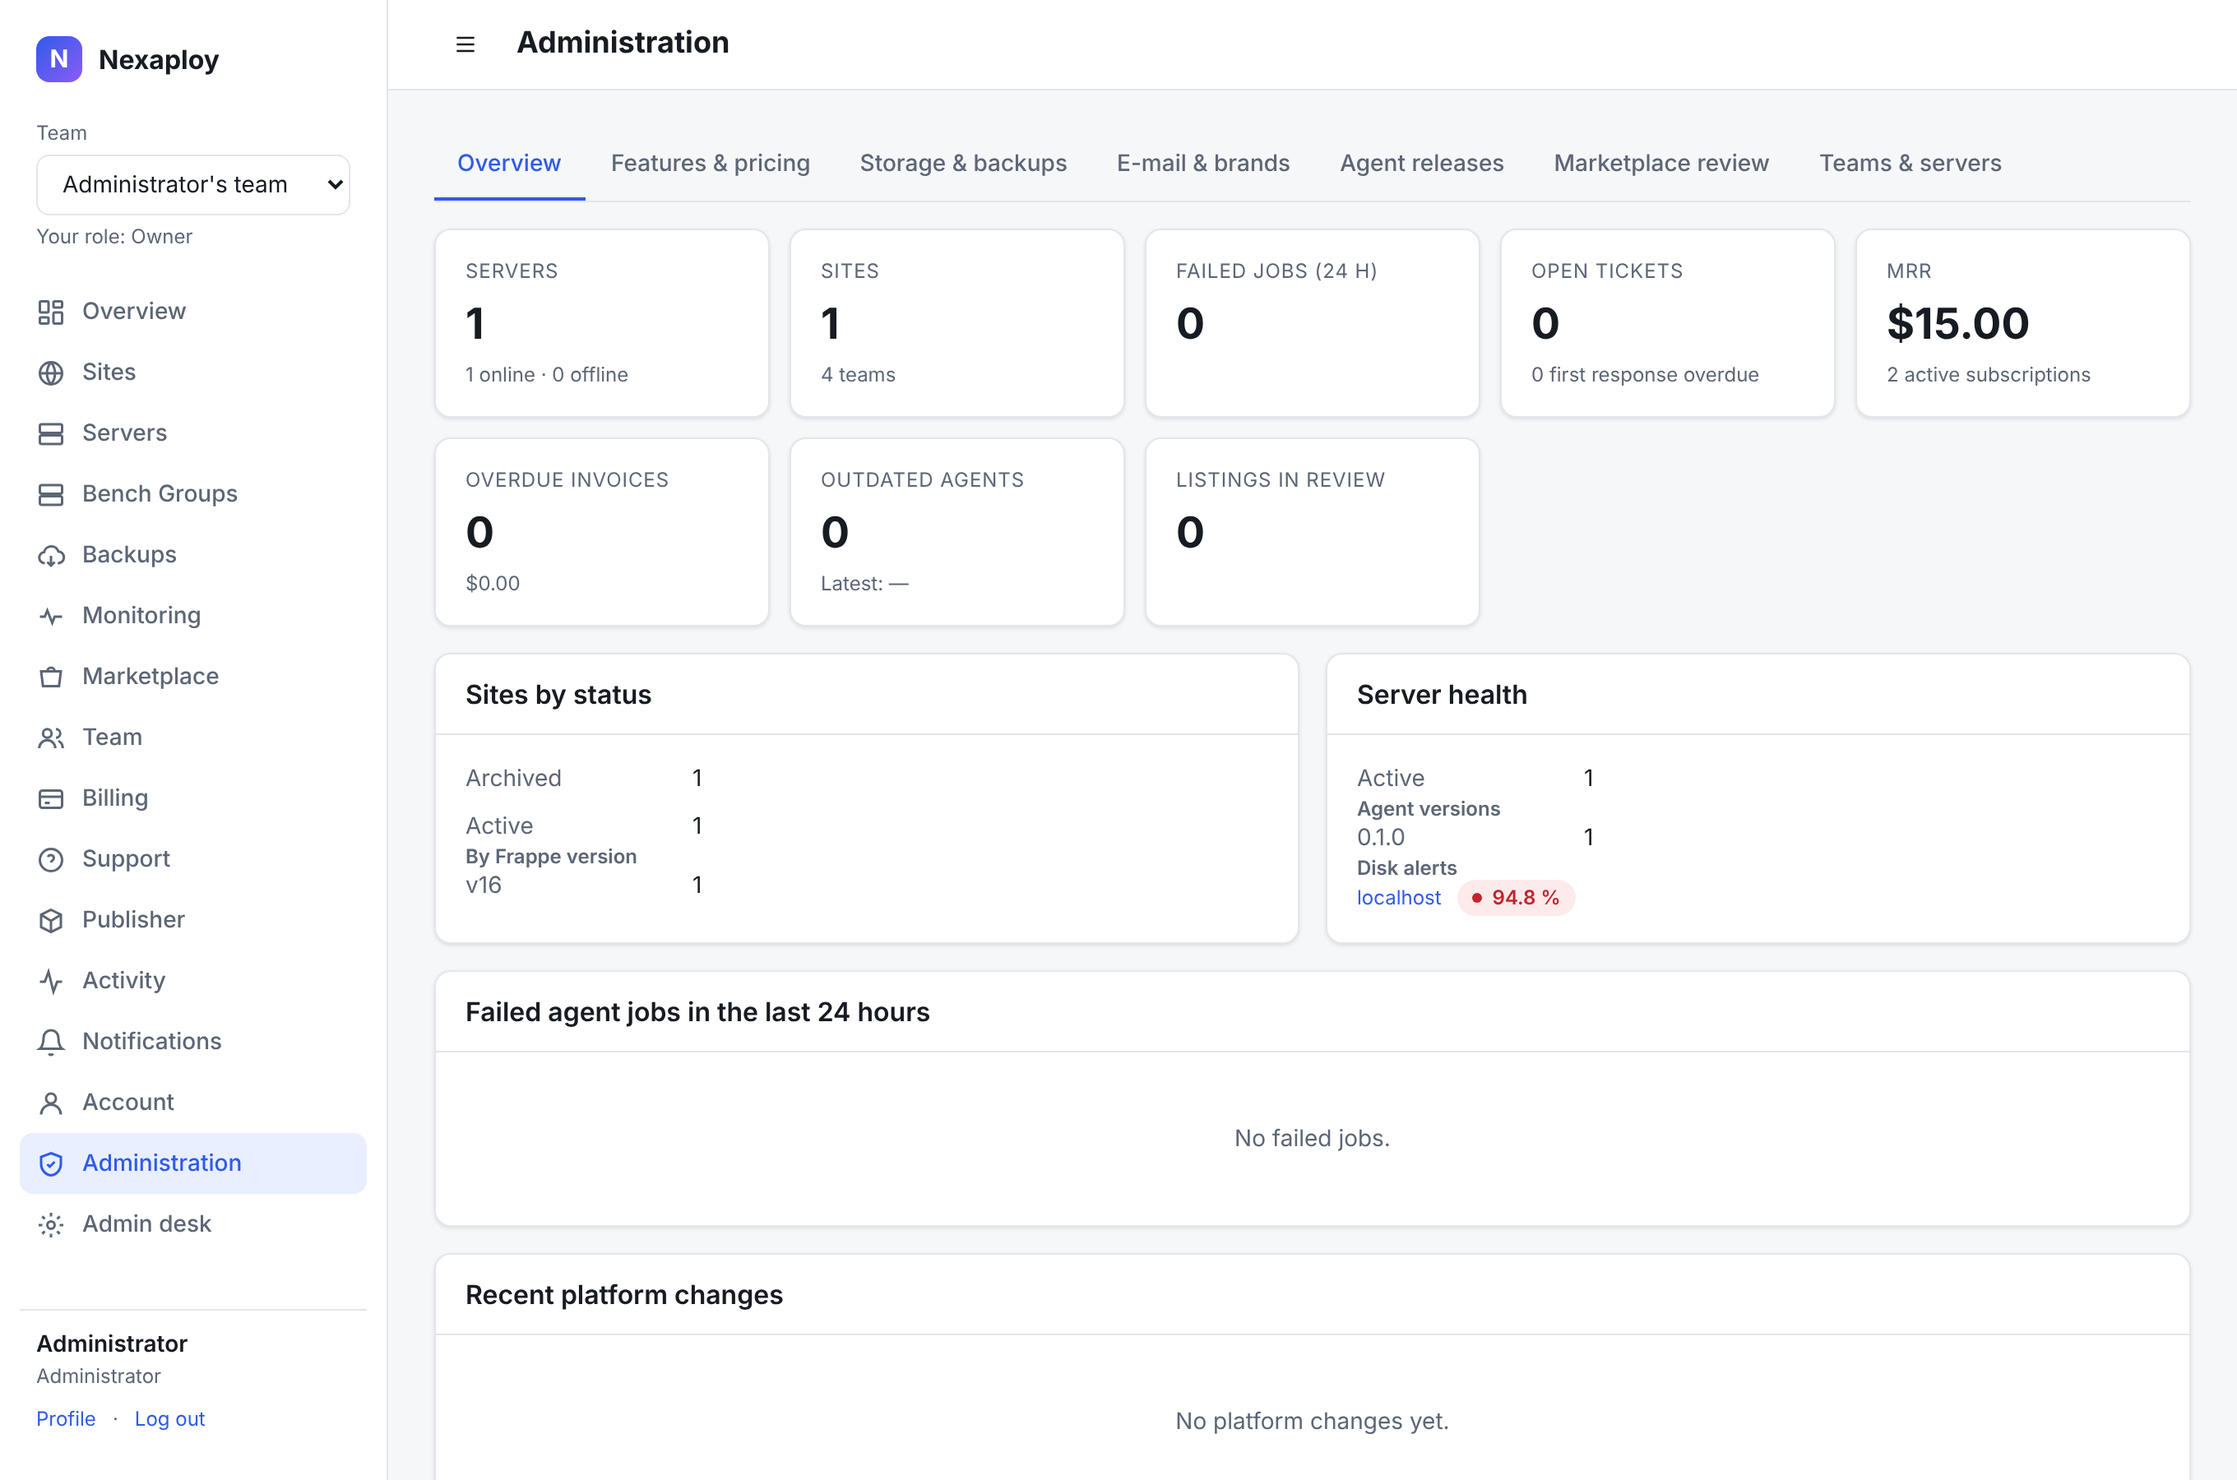
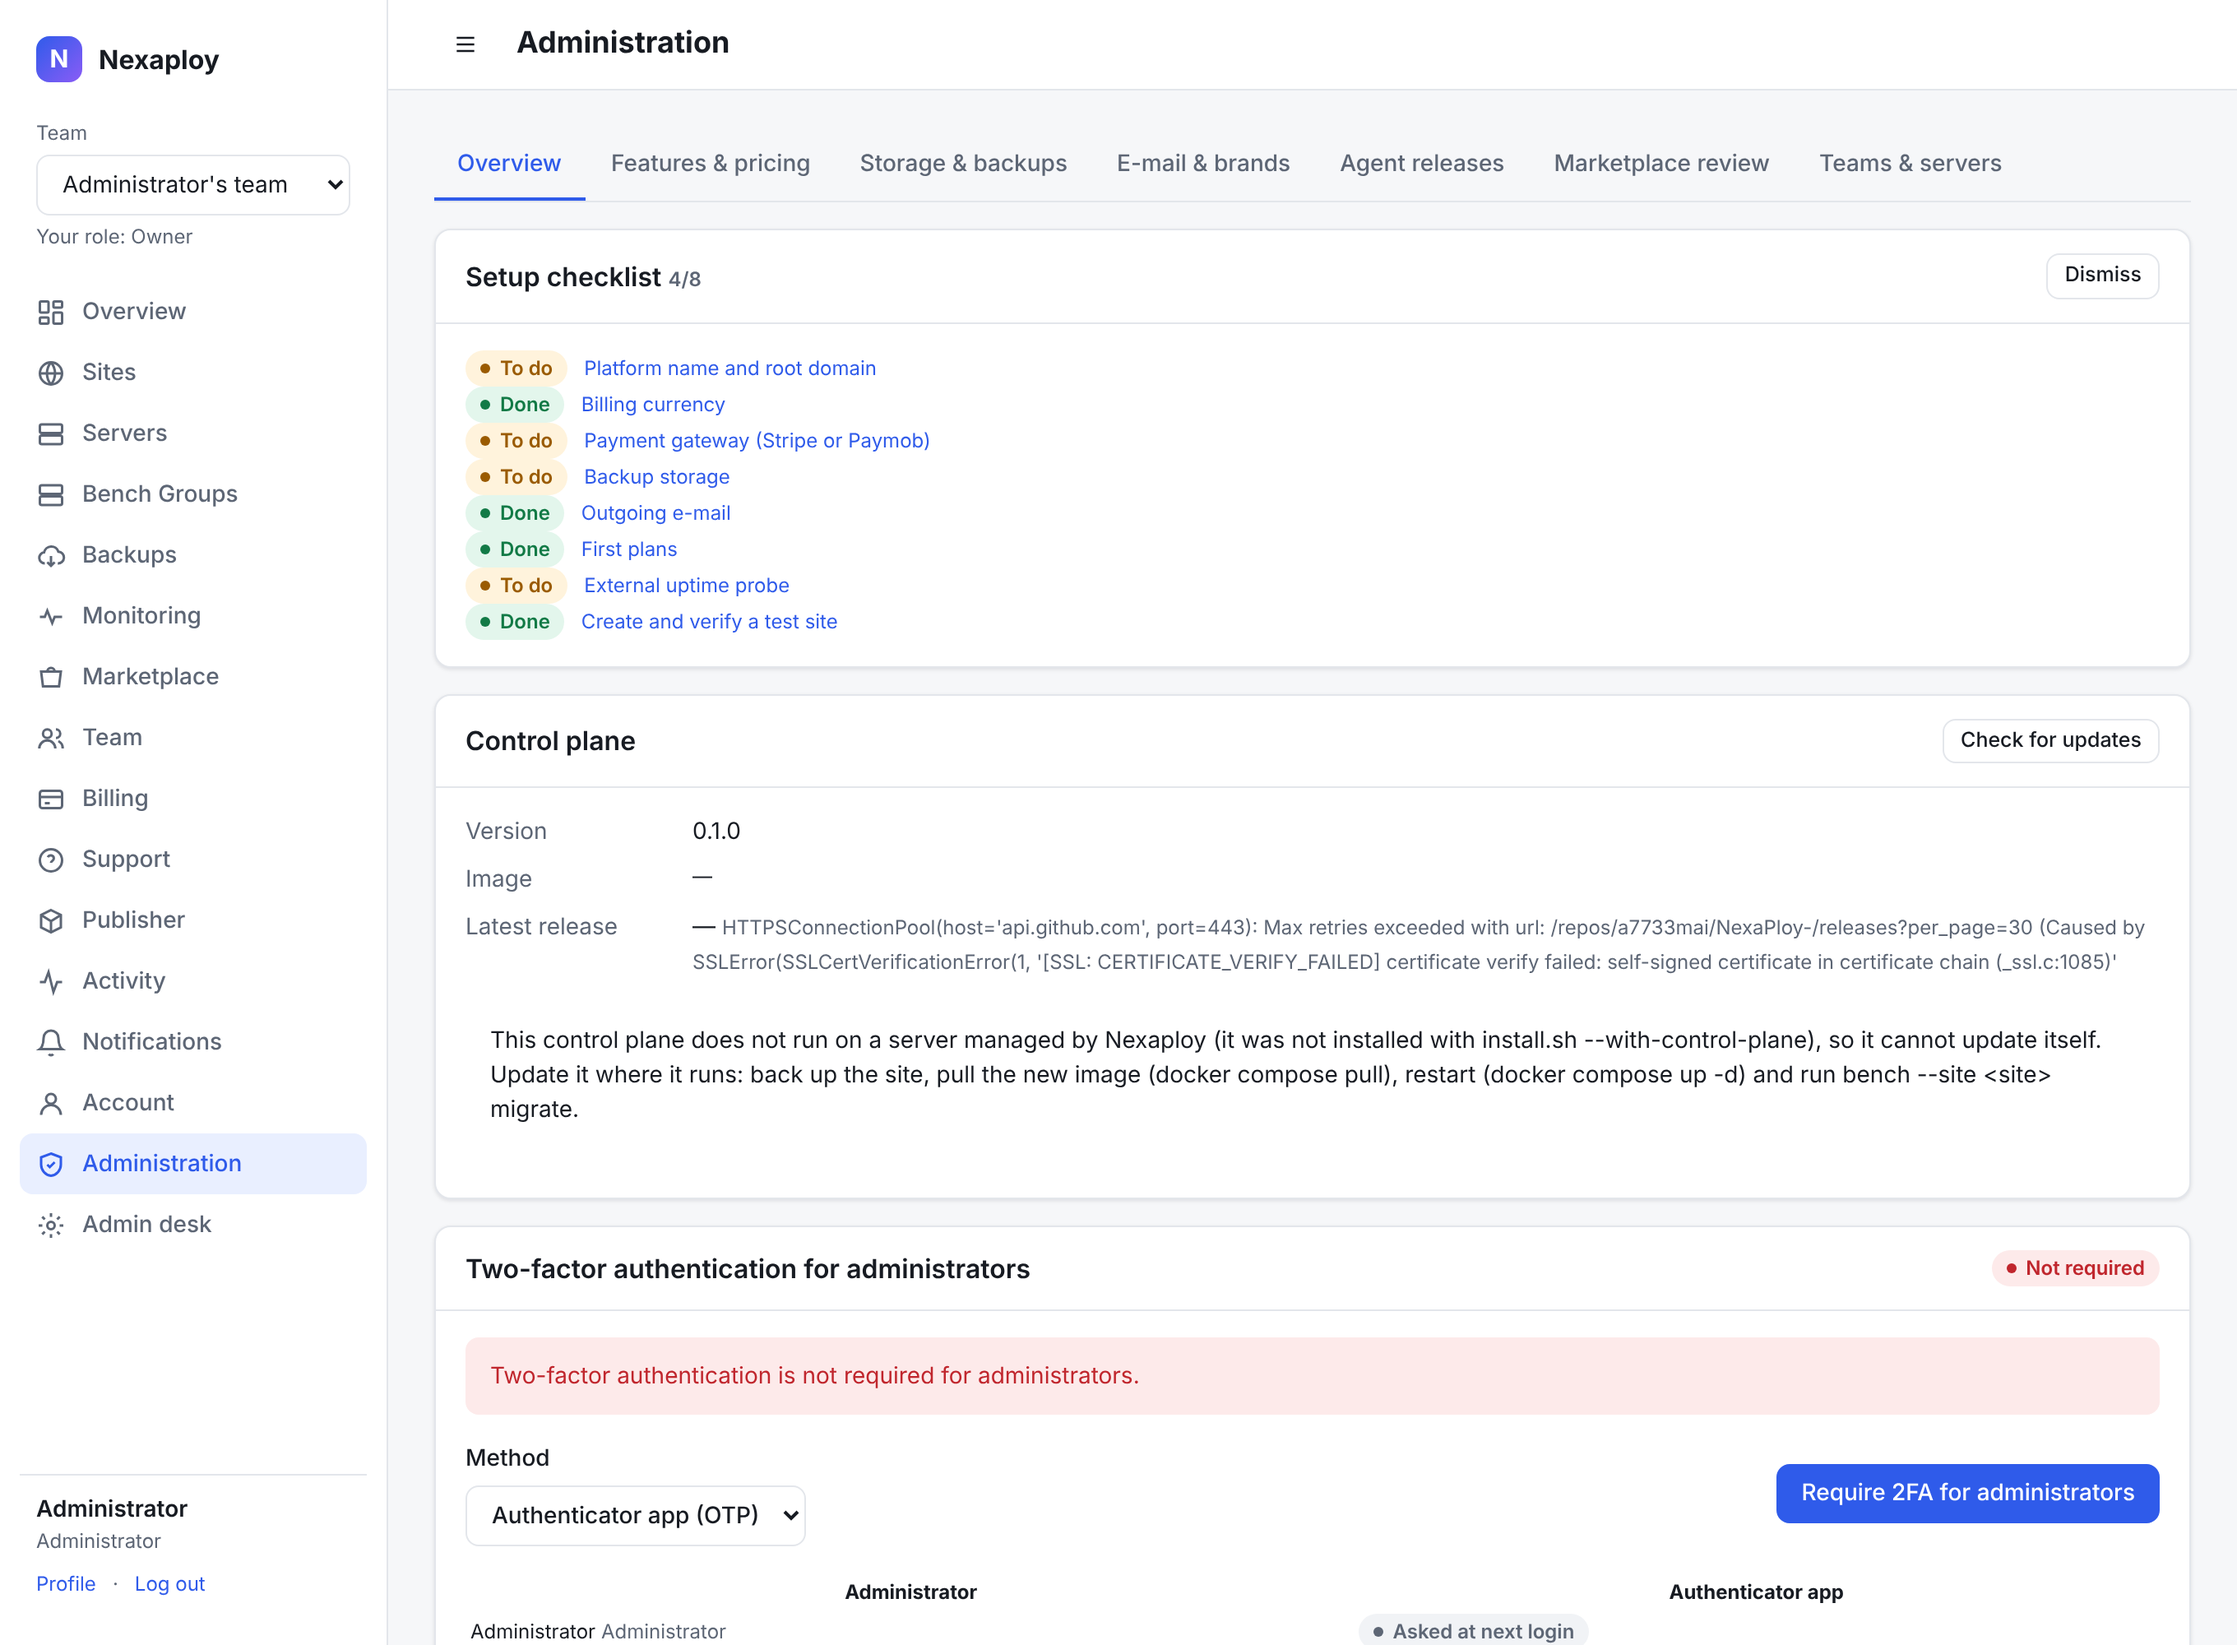
Admin area: require two-factor authentication for administrators
Uses Frappe's own 2FA (System Settings + System Manager role two_factor_auth). The card
shows whether it is enforced and which admins still have to set up their authenticator app.
Enabling is refused until the delivery channel exists (outgoing e-mail for OTP App/Email,
SMS Settings for SMS): found live - Frappe e-mails the QR code on first login, so without an
outgoing account every admin would be locked out. Only the two System Settings fields are
written (a full save fails on sites without language/time zone).

Claude-Session: https://claude.ai/code/session_01H81sbb3PLe8cUobwA7wF1d

diff --git a/control-plane/nexaploy/templates/includes/admin_security.html b/control-plane/nexaploy/templates/includes/admin_security.html
@@ -1,0 +1,37 @@
+<!-- /dashboard/admin Overview: two-factor authentication for administrators
+     (public/js/admin_security.js, API nexaploy.api.admin_security.*) -->
+<section class="card" x-data="nxAdminSecurity" x-show="tf">
+	<div class="card-head">
+		<h2>{{ _("Two-factor authentication for administrators") }}</h2>
+		<span class="spacer"></span>
+		<span :class="tf ? 'badge ' + tf.level : 'badge'" x-text="tf && (tf.enforced ? __('Required') : __('Not required'))"></span>
+	</div>
+	<div class="card-body stack">
+		<div :class="tf ? 'alert ' + (tf.level === 'success' ? 'info' : tf.level) : 'alert'" x-text="tf && __(tf.message)"></div>
+		<div class="row">
+			<label class="field"><span>{{ _("Method") }}</span>
+				<select class="input" x-model="method">
+					<option value="OTP App">{{ _("Authenticator app (OTP)") }}</option>
+					<option value="Email">{{ _("E-mail code") }}</option>
+					<option value="SMS">{{ _("SMS code") }}</option>
+				</select>
+			</label>
+			<span class="spacer"></span>
+			<button class="btn primary" type="button" x-show="tf && !tf.enforced" :disabled="busy" @click="save(1)">{{ _("Require 2FA for administrators") }}</button>
+			<button class="btn" type="button" x-show="tf && tf.enforced" :disabled="busy" @click="save(1)">{{ _("Save method") }}</button>
+			<button class="btn danger" type="button" x-show="tf && tf.enforced" :disabled="busy" @click="save(0)">{{ _("Stop requiring 2FA") }}</button>
+		</div>
+		<table class="table small" x-show="tf && tf.admins.length">
+			<thead><tr><th>{{ _("Administrator") }}</th><th>{{ _("Authenticator app") }}</th></tr></thead>
+			<tbody>
+				<template x-for="a in (tf ? tf.admins : [])" :key="a.user">
+					<tr>
+						<td><span x-text="a.full_name"></span> <span class="muted ltr" x-text="a.user"></span></td>
+						<td><span :class="a.otp_configured ? 'badge success' : 'badge'" x-text="a.otp_configured ? __('Set up') : __('Asked at next login')"></span></td>
+					</tr>
+				</template>
+			</tbody>
+		</table>
+		<span class="small muted">{{ _("Keep this session open until you have logged in once with 2FA in another browser window.") }}</span>
+	</div>
+</section>

diff --git a/control-plane/nexaploy/public/js/admin_security.js b/control-plane/nexaploy/public/js/admin_security.js
@@ -1,0 +1,35 @@
+/* Nexaploy admin area: require two-factor authentication for administrators.
+ * Plain script loaded by www/dashboard/admin.html before Alpine starts; registers
+ * `nxAdminSecurity`. API: nexaploy.api.admin_security.*
+ */
+(function () {
+	"use strict";
+	if (window.__nxAdminSecurityLoaded) return;
+	window.__nxAdminSecurityLoaded = true;
+	var API = "nexaploy.api.admin_security.";
+	function t(msg, args) { return typeof window.__ === "function" ? window.__(msg, args) : msg; }
+
+	function register() {
+		window.Alpine.data("nxAdminSecurity", function () {
+			return {
+				tf: null, method: "OTP App", busy: false,
+				init: function () { this.load(); },
+				load: function () {
+					var self = this;
+					window.nx.call(API + "get_two_factor_status").then(function (r) { self.tf = r; self.method = r.method || "OTP App"; })
+						.catch(function () { self.tf = null; });
+				},
+				save: function (enabled) {
+					var self = this;
+					if (!enabled && !window.confirm(t("Stop requiring two-factor authentication for administrators?"))) return;
+					self.busy = true;
+					window.nx.call(API + "require_admin_two_factor", { enabled: enabled, method: self.method })
+						.then(function (r) { self.tf = r; window.nx.toast(t("Saved")); })
+						.catch(function (e) { window.nx.toast((e && e.message) || t("Could not save"), "danger"); })
+						.finally(function () { self.busy = false; });
+				},
+			};
+		});
+	}
+	if (window.Alpine) register(); else document.addEventListener("alpine:init", register);
+})();

diff --git a/control-plane/nexaploy/www/dashboard/admin.html b/control-plane/nexaploy/www/dashboard/admin.html
@@ -5,6 +5,7 @@
 <script src="/assets/nexaploy/js/admin.js"></script>
 <script src="/assets/nexaploy/js/controlplane_admin.js"></script>
 <script src="/assets/nexaploy/js/server_maintenance.js"></script>
+<script src="/assets/nexaploy/js/admin_security.js"></script>
 <style>
 	.nx-admin-stats { display: grid; gap: 12px; grid-template-columns: repeat(auto-fill, minmax(190px, 1fr)); }
 	.nx-admin-form { display: grid; gap: 12px; grid-template-columns: repeat(auto-fill, minmax(220px, 1fr)); align-items: end; }
@@ -33,6 +34,7 @@
 	<template x-if="tab === 'overview' && ov">
 		<div class="stack">
 			{% include "templates/includes/controlplane_admin.html" %}
+			{% include "templates/includes/admin_security.html" %}
 			<div class="nx-admin-stats">
 				<div class="card stat">
 					<div class="label">{{ _("Servers") }}</div>

diff --git a/control-plane/nexaploy/api/admin_security.py b/control-plane/nexaploy/api/admin_security.py
@@ -1,0 +1,73 @@
+"""Administrator area: require two-factor authentication for platform admins.
+
+Uses Frappe's own 2FA: System Settings.enable_two_factor_auth + two_factor_method, and
+Role "System Manager".two_factor_auth = 1 (Frappe asks every user holding a role with
+two_factor_auth at login; Administrator holds every role). Customers' team-level 2FA keeps
+working through the "Nexaploy 2FA" role (nexaploy.teams).
+"""
+
+import frappe
+from frappe import _
+
+from nexaploy import admin_security_utils as su
+from nexaploy.api.admin import _admin
+
+
+def _admins():
+	users = frappe.get_all("Has Role", filters={"role": su.ADMIN_ROLE, "parenttype": "User"}, pluck="parent")
+	users = sorted(set(users) | {"Administrator"})
+	rows = []
+	for user in users:
+		info = frappe.db.get_value("User", user, ["enabled", "full_name"], as_dict=True)
+		if not info or not info.enabled:
+			continue
+		rows.append({
+			"user": user, "full_name": info.full_name or user,
+			# Frappe keeps the TOTP secret in the user's defaults once the app was set up
+			"otp_configured": bool(frappe.db.get_default(f"{user}_otpsecret")),
+		})
+	return rows
+
+
+def _status():
+	return su.summarize(
+		frappe.db.get_single_value("System Settings", "enable_two_factor_auth"),
+		frappe.db.get_single_value("System Settings", "two_factor_method"),
+		frappe.db.get_value("Role", su.ADMIN_ROLE, "two_factor_auth"),
+		_admins(),
+	)
+
+
+@frappe.whitelist()
+def get_two_factor_status():
+	_admin()
+	return _status()
+
+
+@frappe.whitelist(methods=["POST"])
+def require_admin_two_factor(enabled=1, method="OTP App"):
+	"""Turn admin 2FA on (System Settings + System Manager role) or off (role only: team 2FA
+	through the "Nexaploy 2FA" role keeps the global switch on)."""
+	_admin()
+	enabled = int(enabled or 0)
+	try:
+		method = su.validate_method(method)
+	except ValueError as exc:
+		frappe.throw(_(str(exc)))
+	if enabled:
+		blocker = su.enable_blocker(
+			method,
+			bool(frappe.db.exists("Email Account", {"enable_outgoing": 1, "default_outgoing": 1})),
+			bool(frappe.db.get_single_value("SMS Settings", "sms_gateway_url")),
+		)
+		if blocker:
+			frappe.throw(_(blocker))
+		# only these two fields: a full save fails on sites whose setup wizard never set
+		# language/time_zone (mandatory in System Settings)
+		frappe.db.set_single_value("System Settings", {"enable_two_factor_auth": 1, "two_factor_method": method})
+	frappe.db.set_value("Role", su.ADMIN_ROLE, "two_factor_auth", enabled)
+	frappe.clear_cache()
+	from nexaploy.api.admin import _log
+
+	_log("platform.admin_two_factor", "Role", su.ADMIN_ROLE, {"enabled": enabled, "method": method})
+	return _status()

diff --git a/control-plane/tests/test_admin_security.py b/control-plane/tests/test_admin_security.py
@@ -1,0 +1,52 @@
+"""Admin two-factor authentication: pure status logic + API/page wiring."""
+
+import os
+import subprocess
+
+import pytest
+
+from nexaploy import admin_security_utils as su
+
+APP = os.path.join(os.path.dirname(os.path.dirname(os.path.abspath(__file__))), "nexaploy")
+ADMINS = [{"user": "Administrator", "otp_configured": True}, {"user": "ops@x.test", "otp_configured": False}]
+
+
+def test_not_enforced_unless_global_switch_and_role():
+	assert su.summarize(0, "OTP App", 1, ADMINS)["level"] == "danger"
+	assert su.summarize(1, "OTP App", 0, ADMINS)["enforced"] is False
+
+
+def test_pending_setup_and_success():
+	s = su.summarize(1, "OTP App", 1, ADMINS)
+	assert s["enforced"] and s["pending_setup"] == ["ops@x.test"] and s["level"] == "warning"
+	assert su.summarize(1, "Email", 1, ADMINS)["level"] == "success"  # e-mail codes need no setup
+
+
+def test_validate_method():
+	assert su.validate_method(None) == "OTP App"
+	with pytest.raises(ValueError):
+		su.validate_method("Carrier pigeon")
+
+
+def test_api_is_admin_only_and_logged():
+	src = open(os.path.join(APP, "api", "admin_security.py")).read()
+	for fn in ("def get_two_factor_status", "def require_admin_two_factor"):
+		body = src.split(fn, 1)[1].split("\ndef ", 1)[0]
+		assert "_admin()" in body
+	assert 'methods=["POST"]' in src and "platform.admin_two_factor" in src and "allow_guest" not in src
+	assert "import frappe" not in open(os.path.join(APP, "admin_security_utils.py")).read()
+
+
+def test_admin_page_wiring():
+	html = open(os.path.join(APP, "www", "dashboard", "admin.html")).read()
+	assert "/assets/nexaploy/js/admin_security.js" in html and "templates/includes/admin_security.html" in html
+	part = open(os.path.join(APP, "templates", "includes", "admin_security.html")).read()
+	assert part.count("<template") == part.count("</template>")
+	subprocess.run(["node", "--check", os.path.join(APP, "public", "js", "admin_security.js")], check=True)
+
+
+def test_enable_blocked_without_a_delivery_channel():
+	assert "outgoing e-mail" in su.enable_blocker("OTP App", False, False)
+	assert "outgoing e-mail" in su.enable_blocker("Email", False, True)
+	assert "SMS" in su.enable_blocker("SMS", True, False)
+	assert su.enable_blocker("OTP App", True, False) is None

diff --git a/control-plane/nexaploy/admin_security_utils.py b/control-plane/nexaploy/admin_security_utils.py
@@ -1,0 +1,44 @@
+"""Two-factor authentication for platform admins (frappe-free logic)."""
+
+from __future__ import annotations
+
+from typing import Any, Iterable, Mapping
+
+METHODS = ("OTP App", "Email", "SMS")
+ADMIN_ROLE = "System Manager"
+
+
+def summarize(enabled: Any, method: Any, role_requires: Any,
+              admins: Iterable[Mapping[str, Any]]) -> dict[str, Any]:
+	"""Status shown on the admin card. `admins`: [{user, full_name, otp_configured}]."""
+	admins = list(admins)
+	enforced = bool(int(enabled or 0)) and bool(int(role_requires or 0))
+	pending = [a["user"] for a in admins if enforced and method == "OTP App" and not a.get("otp_configured")]
+	if not enforced:
+		level, message = "danger", "Two-factor authentication is not required for administrators."
+	elif pending:
+		level, message = "warning", "Some administrators will set up their authenticator app at their next login."
+	else:
+		level, message = "success", "Administrators must use two-factor authentication."
+	return {
+		"enabled": bool(int(enabled or 0)), "method": method or "OTP App", "role_requires": bool(int(role_requires or 0)),
+		"enforced": enforced, "admins": admins, "pending_setup": pending, "level": level, "message": message,
+	}
+
+
+def validate_method(method: Any) -> str:
+	method = (method or "OTP App").strip()
+	if method not in METHODS:
+		raise ValueError(f"unsupported two-factor method {method!r}")
+	return method
+
+
+def enable_blocker(method: str, has_outgoing_email: bool, has_sms: bool) -> str | None:
+	"""Why 2FA must not be switched on yet (None = OK). Frappe e-mails the authenticator QR
+	code on first use (OTP App) or the code itself (Email), and texts it for SMS: without that
+	channel every administrator would be locked out at the next login."""
+	if method in ("OTP App", "Email") and not has_outgoing_email:
+		return "Set up an outgoing e-mail account first: Frappe e-mails the authenticator QR code (or the login code) to administrators."
+	if method == "SMS" and not has_sms:
+		return "Set up SMS Settings first: Frappe texts the login code to administrators."
+	return None
